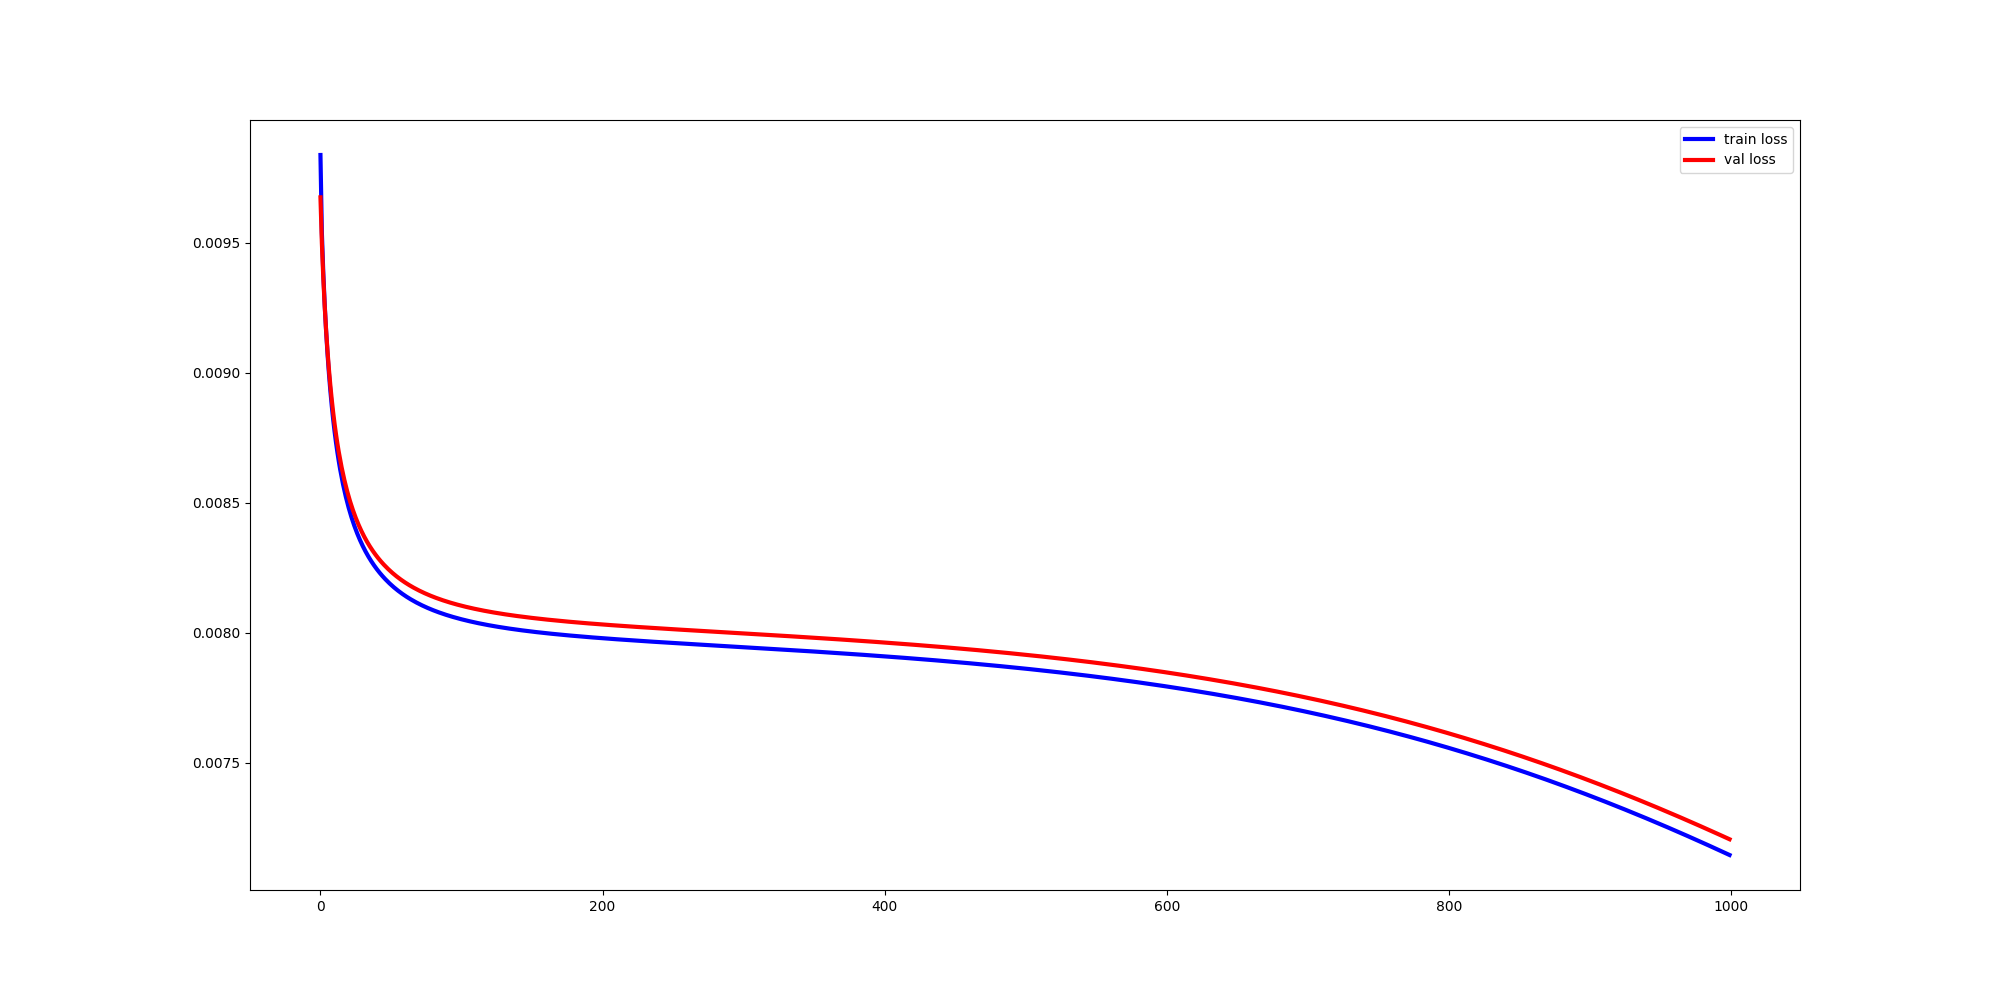
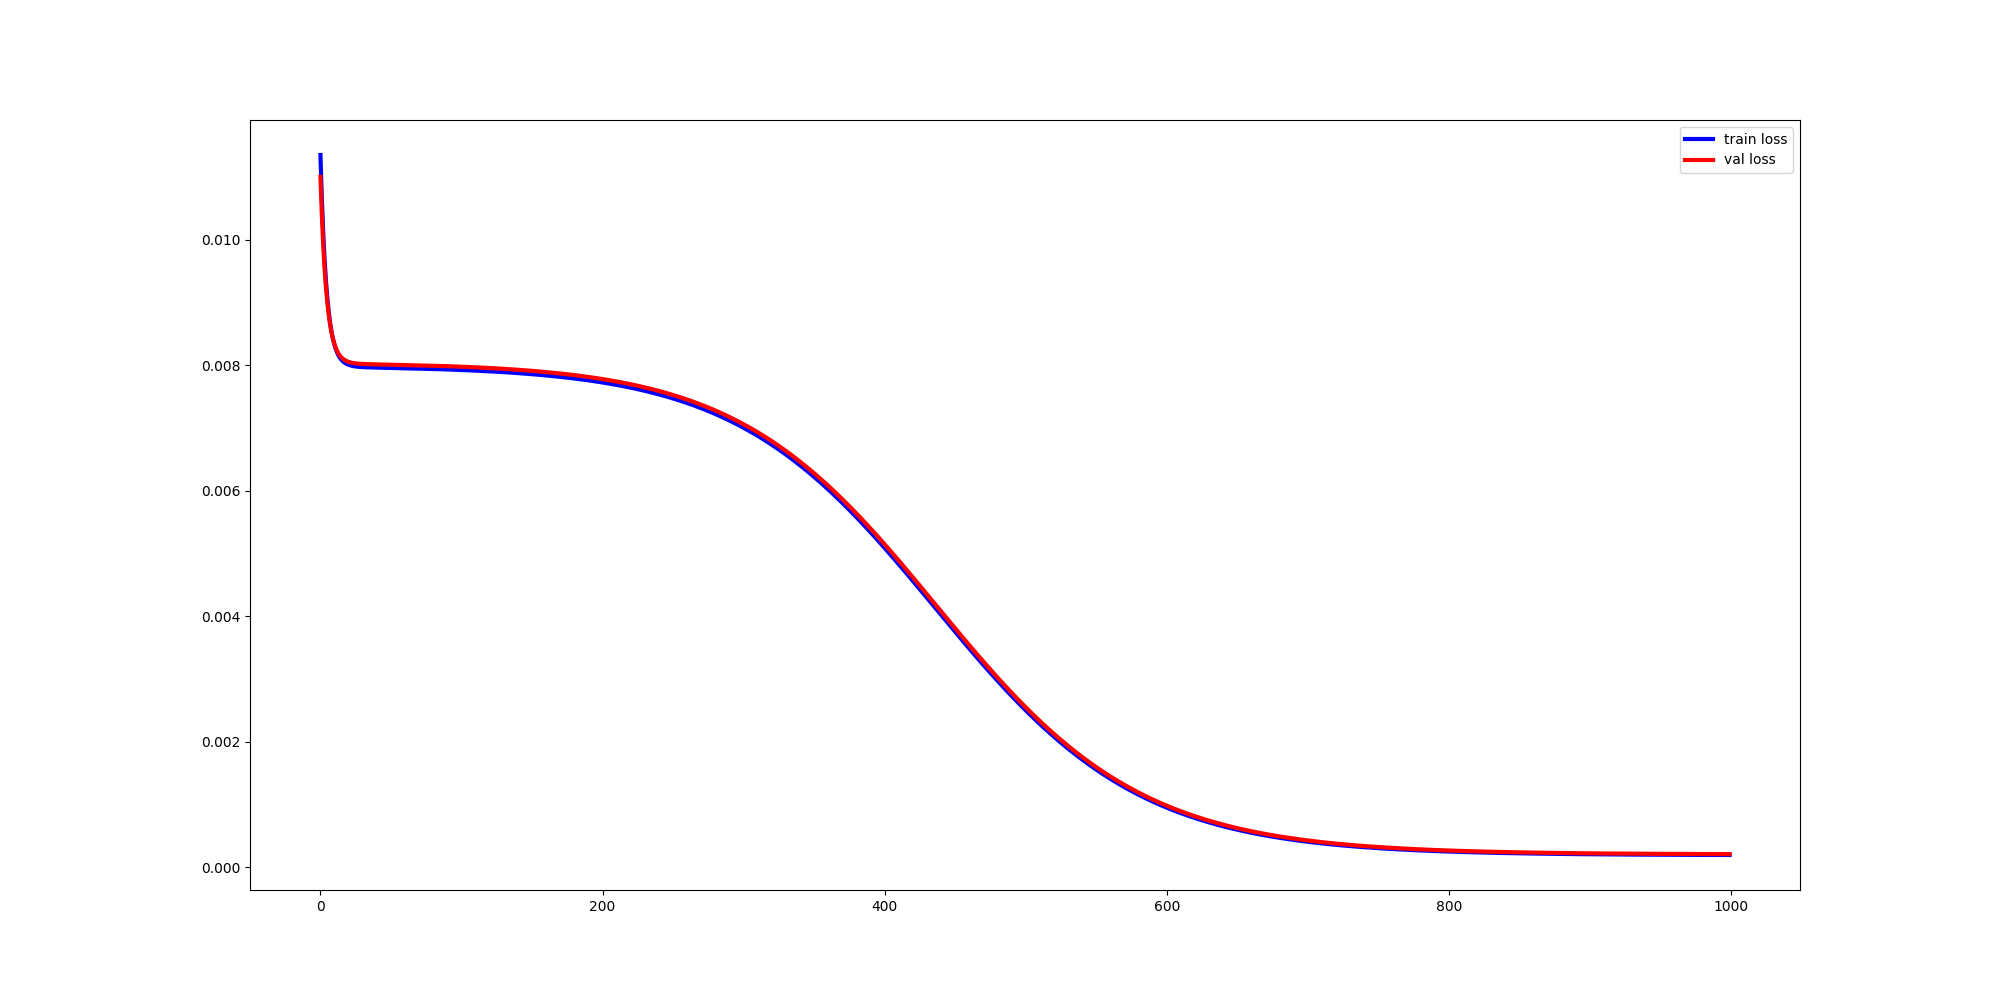
last update CNN

diff --git a/CNN.py b/CNN.py
@@ -6,9 +6,9 @@ import matplotlib.pyplot as plt
 class CNN:
 
     def __init__(self, xtrain, ytrain, xtest, ytest, xvalidation, yvalidation,
-                 batch_size=1000, epochs=1000, learning_rate=1,
+                 batch_size=700, epochs=1000, learning_rate=2,
                  build_model=True, save_model=True, draw_model=True,
-                 show_summary=False, show_verbose=True):
+                 show_summary=True, show_verbose=True):
 
         self.xtrain = xtrain
         self.ytrain = ytrain
@@ -33,23 +33,31 @@ class CNN:
     def build_my_model(self):
 
         self.N = int(self.xtrain.shape[1])
-
+ 
         self.input_layer = tf.keras.layers.Input(
             self.xtrain.shape[1:], name='Input')
 
-        self.conv1 = tf.keras.layers.Conv1D(
-            filters=2, kernel_size=32 ,activation='tanh', name='Conv1')(self.input_layer)
+        self.residual = self.input_layer
 
-        self.maxpool1 = tf.keras.layers.MaxPool1D(
-            pool_size=2, name='MaxPool1')(self.conv1)
+        self.conv1 = tf.keras.layers.Conv1D(
+            filters=4, kernel_size=32 ,padding='same',activation='relu', name='Conv1')(self.input_layer)
 
         self.conv2 = tf.keras.layers.Conv1D(
-            filters=20,kernel_size=32, activation='tanh', name='Conv2')(self.maxpool1)
+            filters=4,kernel_size=32,padding='same', activation='relu', name='Conv2')(self.conv1)
 
-        self.maxpool2 = tf.keras.layers.MaxPool1D(
-            pool_size=2, name='MaxPool2')(self.conv2)
+        #self.conv3 = tf.keras.layers.Conv1D(
+            #filters=4, kernel_size=32 ,padding='same',activation='relu', name='Conv3')(self.conv2)
+
+        #self.conv4 = tf.keras.layers.Conv1D(
+            #filters=4, kernel_size=32 ,padding='same',activation='relu', name='Conv4')(self.conv3)
         
-        self.flatten1 = tf.keras.layers.Flatten(name='Flatten1')(self.maxpool2)
+        self.residual = tf.keras.layers.Conv1D(
+            filters=4, kernel_size=1,name='residualConnection'
+        )(self.residual)
+
+        self.results = tf.keras.layers.add([self.conv2,self.residual])
+
+        self.flatten1 = tf.keras.layers.Flatten(name='Flatten1')(self.residual)
 
         self.output_layer = tf.keras.layers.Dense(
             units=self.N*2, activation='linear', name='Output')(self.flatten1)
@@ -62,6 +70,7 @@ class CNN:
         self.my_optimizer = tf.keras.optimizers.SGD(lr=self.learning_rate)
 
         self.my_model.compile(loss=self.my_loss, optimizer=self.my_optimizer)
+
 
         if self.show_summary:
 

diff --git a/FFN.py b/FFN.py
@@ -6,7 +6,7 @@ import matplotlib.pyplot as plt
 class FFN:
 
     def __init__(self, xtrain, ytrain, xtest, ytest, xvalidation, yvalidation,
-                 batch_size=1000, epochs=400, learning_rate=10,
+                 batch_size=1000, epochs=500, learning_rate=5,
                  build_model=True, save_model=True, draw_model=True,
                  show_summary=False, show_verbose=True):
 
@@ -40,16 +40,16 @@ class FFN:
         self.flatten1 = tf.keras.layers.Flatten(name='Flatten1')(self.input_layer)
 
         self.dense1 = tf.keras.layers.Dense(
-            units=2**9, activation='tanh', name='Dense1')(self.flatten1)
+            units=2**9, activation='relu', name='Dense1')(self.flatten1)
 
         self.dense2 = tf.keras.layers.Dense(
-            units=2**7, activation='tanh', name='Dense2')(self.dense1)
+            units=2**7, activation='relu', name='Dense2')(self.dense1)
 
         self.dense3 = tf.keras.layers.Dense(
-            units=2**7, activation='tanh', name='Dense3')(self.dense2)
+            units=2**7, activation='relu', name='Dense3')(self.dense2)
 
         self.dense4 = tf.keras.layers.Dense(
-            units=2**8, activation='tanh', name='Dense4')(self.dense3)
+            units=2**8, activation='relu', name='Dense4')(self.dense3)
 
         self.output_layer = tf.keras.layers.Dense(
             units=self.N*2, activation='linear', name='Output')(self.dense4)
